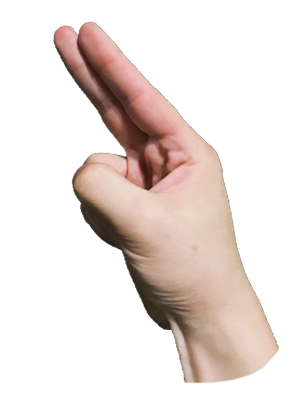
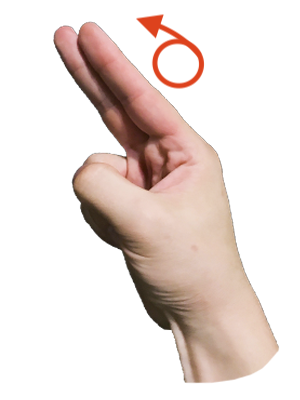
upd

Changed region(s): [[0.45, 0.03, 0.69, 0.24]]

diff --git a/src/com/company/Dactyl.java b/src/com/company/Dactyl.java
@@ -11,21 +11,32 @@ public class Dactyl extends JComponent {
 
     private BufferedImage jesture1 = null;
     private BufferedImage backButton = null;
+    private BufferedImage alphabetButton = null;
+    private BufferedImage alphabet = null;
 
     Dactyl(){}
 
+    //Подключение изображений
     public void setImages(){
         try
         {
             jesture1 = ImageIO.read(new File("images/jestures/А.png"));
             backButton = ImageIO.read(new File("images/BackButton.png"));
+            alphabetButton = ImageIO.read(new File("images/aya.png"));
+            alphabet = ImageIO.read(new File("images/alphabet.png"));
         } catch (IOException e){e.printStackTrace();}
     }
 
     //Отрисовка изображений
     public void drawImages(Graphics g){
-        g.drawImage(jesture1,150, 300,300,400,null);
-        g.drawImage(backButton,500, 650,200,50,null);
+        g.drawImage(jesture1,150, 200,300,400,null);
+        g.drawImage(backButton,500, 700,200,50,null);
+        g.drawImage(alphabetButton,1000, 100,100,100,null);
+    }
+
+    public void drawAlphabet(Graphics g){
+        g.drawImage(alphabet,10, 10,1200,640,null);
+        g.drawImage(backButton,500, 700,200,50,null);
     }
 
     public void paint(Graphics g){

diff --git a/src/com/company/ProgramExplorer.java b/src/com/company/ProgramExplorer.java
@@ -46,9 +46,11 @@ public class ProgramExplorer extends JFrame {
                 System.out.println("click "+modeIndex);
             }
 
-            if ((modeIndex!=0)&&((X>500&&Y>650)&&(X<700&&Y<700))){
+            //Обработка нажатий мыши по кнопке НАЗАД
+            if ((modeIndex!=0)&&((X>500&&Y>700)&&(X<700&&Y<750))){
                 if(modeIndex==1) modeIndex=0;
                 if((modeIndex==11)||(modeIndex==12)) modeIndex=1;
+                if(modeIndex==111) modeIndex=11;
                 System.out.println("click "+modeIndex);
             }
 
@@ -57,6 +59,13 @@ public class ProgramExplorer extends JFrame {
                 modeIndex=11;
                 System.out.println("click "+modeIndex);
             }
+
+            //Обработка нажатий мыши по кнопкам в меню обучения
+            if ((modeIndex==11)&&((X>1000&&Y>100)&&(X<1100&&Y<200))){
+                modeIndex=111;
+                System.out.println("click "+modeIndex);
+            }
+
 
             //Обработка нажатий мыши по кнопкам в меню обучения
             if ((modeIndex==1)&&((X>350&&Y>450)&&(X<850&&Y<500))){

diff --git a/src/com/company/MenuMode.java b/src/com/company/MenuMode.java
@@ -62,6 +62,8 @@ public class MenuMode extends JComponent {
         /* Отрисовка режима в соответствии с флагом modeIndex
         0 - меню
         1 - обучение
+        11 - дактильная азбука (111)
+        12 - жесты
         2 - практика
         3 - слова
          */
@@ -75,9 +77,15 @@ public class MenuMode extends JComponent {
         if (ProgramExplorer.modeIndex==1) {
             learnMode.paint(g);
         }
+
         if (ProgramExplorer.modeIndex==11) {
             dactyl.paint(g);
         }
+
+        if (ProgramExplorer.modeIndex==111) {
+            dactyl.drawAlphabet(g);
+        }
+
         if (ProgramExplorer.modeIndex==12) {
             jestures.paint(g);
         }

diff --git a/src/com/company/LearnMode.java b/src/com/company/LearnMode.java
@@ -16,6 +16,7 @@ public class LearnMode extends JComponent {
 
     LearnMode(){}
 
+    //Подключение изображений
     public void setImages(){
         try
         {
@@ -29,10 +30,10 @@ public class LearnMode extends JComponent {
     public void drawImages(Graphics g){
         g.drawImage(dactylButton,350, 300,500,50,null);
         g.drawImage(jesturesButton,350, 450,500,50,null);
-        g.drawImage(backButton,500, 650,200,50,null);
+        g.drawImage(backButton,500, 700,200,50,null);
     }
 
-
+    //Графическая функция
     public void paint(Graphics g){
         setImages();
         drawImages(g);

diff --git a/src/com/company/Jestures.java b/src/com/company/Jestures.java
@@ -11,6 +11,7 @@ public class Jestures {
 
     Jestures(){}
 
+    //Подключение изображений
     public void setImages(){
         try
         {
@@ -20,7 +21,7 @@ public class Jestures {
 
     //Отрисовка изображений
     public void drawImages(Graphics g){
-        g.drawImage(backButton,500, 650,200,50,null);
+        g.drawImage(backButton,500, 700,200,50,null);
     }
 
     public void paint(Graphics g){
